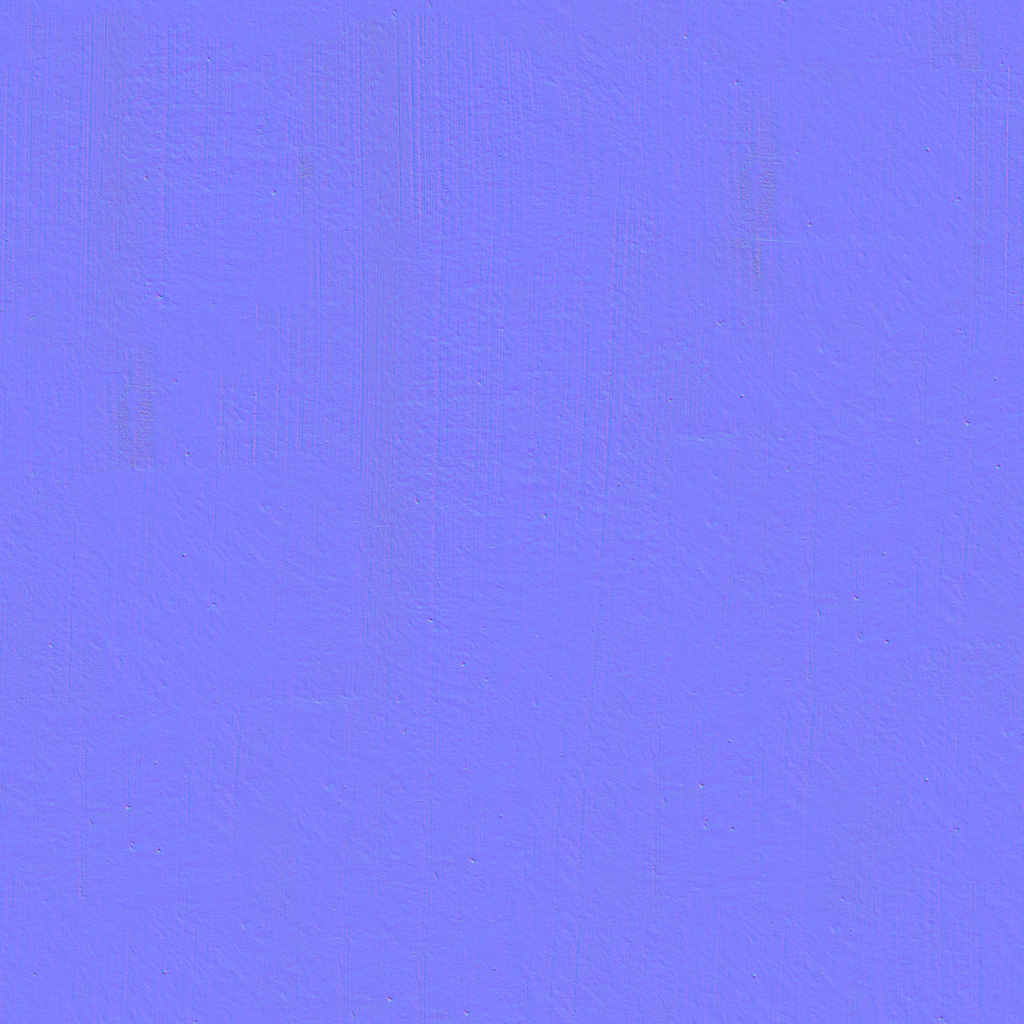
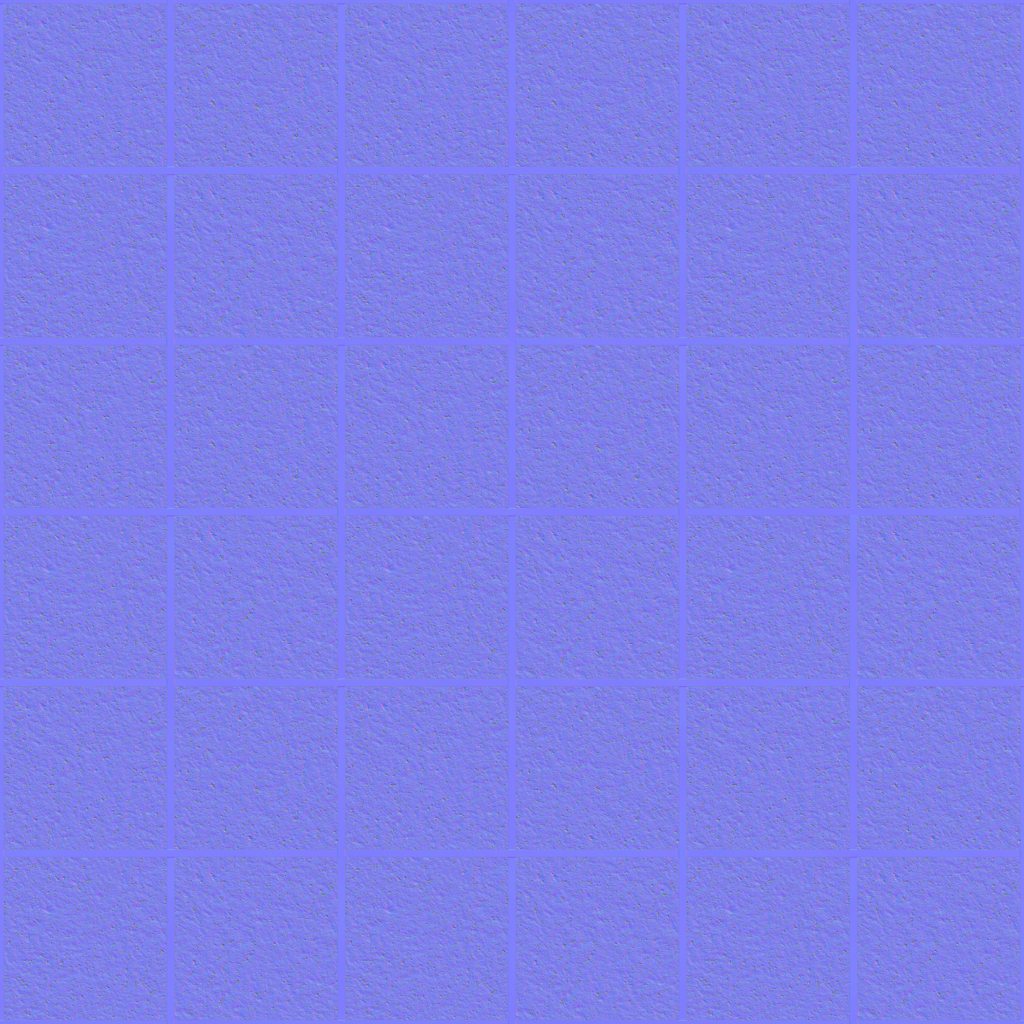
Madeira, reboco e forro de escritorio; textura aceita PNG
A referencia pedia tres materiais que o jogo nao tinha, e eram eles que
faziam o corredor parecer concreto cru:

- parede: nogueira em ripas verticais (gerada, entregue em PNG)
- reboco: PaintedPlaster017, o painel claro de baixo
- teto: OfficeCeiling001, forro perfurado de escritorio

Uma tentativa deu errado no caminho e vale registrar: PaintedMetal004
para o painel de baixo saiu VERMELHO VIVO, porque e metal pintado de
vermelho. Tingir nao resolve — multiplicar albedo nao tira cor, so
escurece. Trocado por reboco branco.

Texturizado() agora procura .png antes de .jpg. Quem gera textura fora do
jogo entrega PNG, e exigir conversao so para soltar um arquivo na pasta
anulava a ideia do registro de assets.

A criatura passou a aceitar pele por textura (assets/texturas/criatura_*),
projetada de forma triplanar porque ela e montada em codigo e nao tem UV.
Sem arquivo, continua com a cor de antes.

140 testes passando.

Changed region(s): [[0.0, 0.0, 1.0, 1.0]]

diff --git a/game/godot/scripts/Bootstrap.cs b/game/godot/scripts/Bootstrap.cs
@@ -187,7 +187,9 @@ namespace TurnoDaNoite.Jogo
                 Roughness = 0.5f
             };
 
-            _matParede = Texturizado("parede", new Color(0.55f, 0.53f, 0.50f), 0.28f)
+            // madeira em ripas verticais, como na referencia; escala menor para
+            // a ripa aparecer em vez de virar borrao
+            _matParede = Texturizado("parede", new Color(0.62f, 0.50f, 0.36f), 0.42f)
                          ?? Fosco(new Color(0.26f, 0.25f, 0.23f));
             _matPiso = Texturizado("piso", new Color(0.52f, 0.51f, 0.49f), 0.22f)
                        ?? Fosco(new Color(0.19f, 0.18f, 0.17f), 0.95f);
@@ -195,7 +197,7 @@ namespace TurnoDaNoite.Jogo
             // metal a um metro do nariz é a coisa que mais rápido entrega que
             // aquilo é uma maquete: sem grão, sem risco, sem ferrugem, a peça
             // vira plástico. Todas as texturas são CC0 do ambientCG.
-            _matTeto = Texturizado("teto", new Color(0.30f, 0.30f, 0.31f), 0.26f)
+            _matTeto = Texturizado("teto", new Color(0.52f, 0.52f, 0.50f), 0.38f)
                        ?? Fosco(new Color(0.13f, 0.13f, 0.14f));
             _matArmario = Texturizado("metal", new Color(0.38f, 0.41f, 0.44f), 1.3f)
                           ?? Fosco(new Color(0.22f, 0.24f, 0.26f), 0.6f);
@@ -212,7 +214,8 @@ namespace TurnoDaNoite.Jogo
             Modelos.Texturas(
                 metal: Texturizado("metal", new Color(0.30f, 0.32f, 0.35f), 2.2f),
                 madeira: Texturizado("madeira", new Color(0.42f, 0.32f, 0.22f), 1.6f),
-                ferrugem: Texturizado("ferrugem", new Color(0.46f, 0.30f, 0.22f), 2.0f));
+                ferrugem: Texturizado("ferrugem", new Color(0.46f, 0.30f, 0.22f), 2.0f),
+                pele: Texturizado("criatura", new Color(0.30f, 0.27f, 0.28f), 1.1f));
         }
 
         /// <summary>
@@ -227,10 +230,27 @@ namespace TurnoDaNoite.Jogo
         /// <summary>Desliga o mapa de normal, para testar se ele esta quebrando a luz.</summary>
         public static bool SemNormal;
 
+        /// <summary>
+        /// Acha o arquivo da textura, em .jpg ou .png.
+        ///
+        /// Aceita os dois porque quem gera textura fora do jogo costuma
+        /// entregar PNG, e exigir conversão só para soltar um arquivo na pasta
+        /// anulava a ideia do registro de assets.
+        /// </summary>
+        static string AcharTextura(string nome, string mapa)
+        {
+            foreach (string ext in new[] { ".png", ".jpg" })
+            {
+                string caminho = $"res://assets/texturas/{nome}_{mapa}{ext}";
+                if (ResourceLoader.Exists(caminho)) return caminho;
+            }
+            return null;
+        }
+
         static StandardMaterial3D Texturizado(string nome, Color tinta, float escala)
         {
-            string cor = $"res://assets/texturas/{nome}_cor.jpg";
-            if (!ResourceLoader.Exists(cor)) return null;
+            string cor = AcharTextura(nome, "cor");
+            if (cor == null) return null;
 
             var mat = new StandardMaterial3D
             {
@@ -242,16 +262,16 @@ namespace TurnoDaNoite.Jogo
                 Metallic = 0f
             };
 
-            string normal = "res://assets/texturas/" + nome + "_normal.jpg";
-            if (!SemNormal && ResourceLoader.Exists(normal))
+            string normal = AcharTextura(nome, "normal");
+            if (!SemNormal && normal != null)
             {
                 mat.NormalEnabled = true;
                 mat.NormalTexture = GD.Load<Texture2D>(normal);
                 mat.NormalScale = 1.2f;   // realça o relevo: no escuro é o que dá textura à parede
             }
 
-            string aspereza = $"res://assets/texturas/{nome}_aspereza.jpg";
-            if (ResourceLoader.Exists(aspereza))
+            string aspereza = AcharTextura(nome, "aspereza");
+            if (aspereza != null)
             {
                 mat.RoughnessTexture = GD.Load<Texture2D>(aspereza);
                 mat.RoughnessTextureChannel = BaseMaterial3D.TextureChannel.Red;
@@ -568,7 +588,7 @@ namespace TurnoDaNoite.Jogo
             const float alturaPainel = 1.10f;
             const float alturaRodape = 0.16f;
 
-            var painelMat = Texturizado("reboco", new Color(0.56f, 0.55f, 0.51f), 0.55f)
+            var painelMat = Texturizado("reboco", new Color(0.66f, 0.66f, 0.63f), 0.65f)
                             ?? new StandardMaterial3D
                             {
                                 AlbedoColor = new Color(0.30f, 0.29f, 0.27f), Roughness = 0.82f

diff --git a/game/godot/scripts/Modelos.cs b/game/godot/scripts/Modelos.cs
@@ -58,12 +58,17 @@ namespace TurnoDaNoite.Jogo
         /// </summary>
         public static void Texturas(StandardMaterial3D metal = null,
                                     StandardMaterial3D madeira = null,
-                                    StandardMaterial3D ferrugem = null)
+                                    StandardMaterial3D ferrugem = null,
+                                    StandardMaterial3D pele = null)
         {
             if (metal != null) _metalEscuro = metal;
             if (madeira != null) _madeira = madeira;
             if (ferrugem != null) _ferrugem = ferrugem;
+            if (pele != null) _peleDela = pele;
         }
+
+        /// <summary>Pele da criatura, se alguem entregar uma. Triplanar, porque ela nao tem UV.</summary>
+        static StandardMaterial3D _peleDela;
 
         static StandardMaterial3D _ferrugem;
         static StandardMaterial3D Ferrugem => _ferrugem ??= new StandardMaterial3D
@@ -849,7 +854,7 @@ namespace TurnoDaNoite.Jogo
 
             // proporções em fração da altura, para escalar junto
             float h = altura;
-            var pele = new StandardMaterial3D
+            var pele = _peleDela ?? new StandardMaterial3D
             {
                 AlbedoColor = new Color(0.055f, 0.050f, 0.058f),
                 Roughness = 0.97f,
